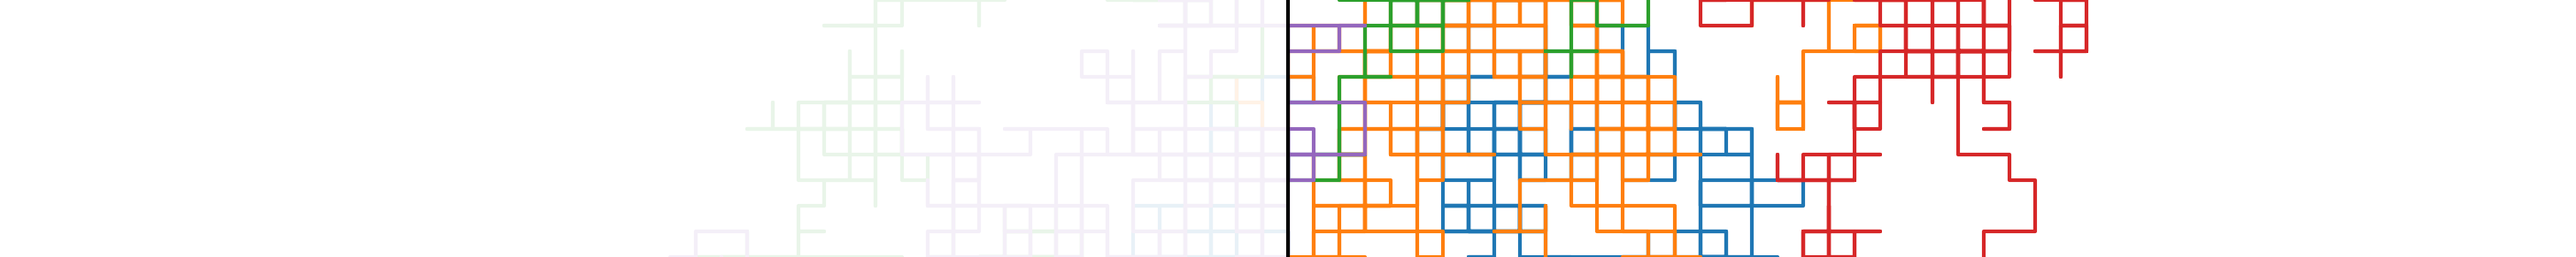
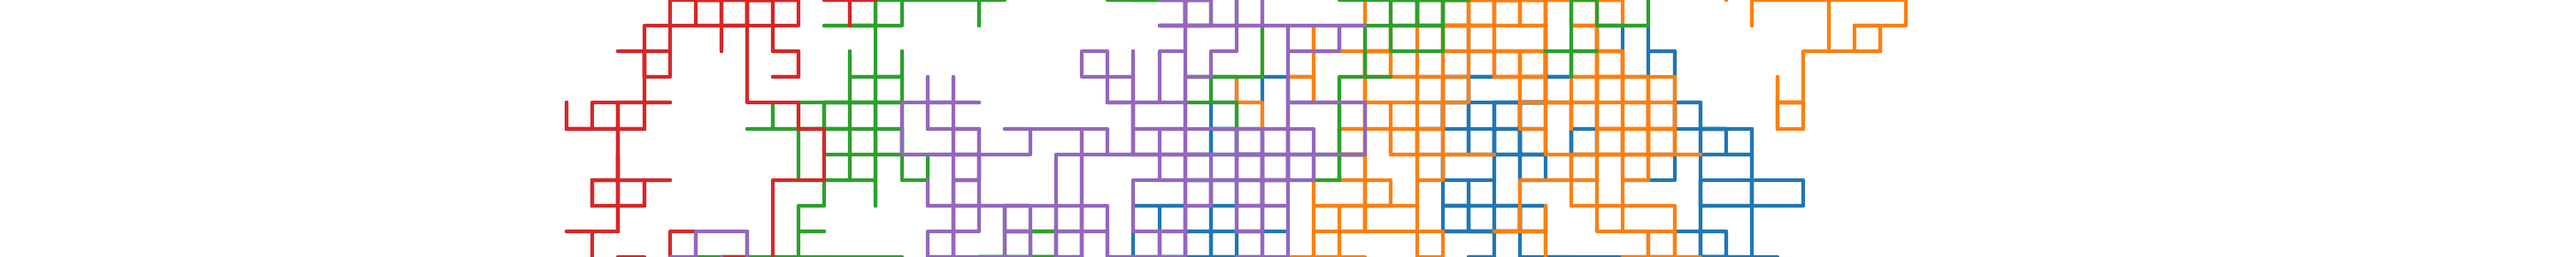
Fixed the hero to align text with respect to the body. This renders better on mobile.

diff --git a/css/style.css b/css/style.css
@@ -21,62 +21,115 @@ a:hover {
   text-decoration: underline;
 }
 
-/* Hero container: acts as a viewport over the fixed-size image */
-/* The image must have a 50% whited out left region so it always appears centered. */
+/* -------- Hero with background image -------- */
+
 .hero {
   position: relative;
-  width: 100%;
-  height: 175px;           /* adjust to match your banner’s visual height */
-  overflow: hidden;        /* hide the part of the image that extends past the right edge */
-  border-bottom: 1px solid #000;
-  background-color: #ffffff;
+  height: 200px;  /* adjust to taste / image aspect */
+  background-image: url("../img/banner.png"); /* new banner with no whiteout */
+  background-size: cover;       /* or 'contain' if you prefer */
+  background-position: center;  /* center the artwork */
+  background-repeat: no-repeat;
+  border-bottom: 2px solid #000;
 }
 
-/* The actual banner image: fixed size, anchored at the left */
-.hero-img {
-  position: absolute;
-  top: 0;
-  left: 50%;
-  transform: translateX(-50%);
-  height: 175px;           /* same as .hero height */
-  width: auto;             /* keep aspect ratio, no rescaling based on window width */
-  max-width: none;         /* don’t auto-fit to container */
-}
-
-/* Text overlay on top of the image */
-/* .hero-inner {
+/* Centered container, same width as main content */
+.hero-inner {
   position: relative;
-  z-index: 2;
   max-width: 900px;
   margin: 0 auto;
-  padding: 1.8rem 1rem;
-} */
-
-.hero-inner {
-  position: absolute;
-  top: 50%;               /* vertical position of top w.r.t. hero */
-  left: 50%;              /* horizontal center of left w.r.t. hero */
-  transform: translate(-150%, -50%); /* Move from above anchor by % size of inner. */
-  z-index: 2;
+  height: 100%;       /* fill full hero height */
+  padding: 0 1rem;    /* matches main's horizontal padding */
 }
 
-/* Card-like white strip with text */
+/* White strip aligned with main text column */
 .hero-strip {
-  display: inline-block;
-  background: rgba(255, 255, 255, 0.0);
-  /* border: 1px solid #000; */
+  position: absolute;
+  top: 0;
+  bottom: 0;                      /* full height of .hero */
+  left: 0;                        /* left edge of the main content column */
+  width: min(340px, 60%);         /* not too wide on small screens */
+  background: rgba(255, 255, 255, 0.9);
+  border-right: 2px solid #000;   /* vertical divider line */
+  border-left: 2px solid #000;
+  display: flex;
+  align-items: center;            /* center text vertically inside strip */
+}
+
+/* Text inside the strip */
+.hero-text {
   padding: 0.8rem 1.2rem;
 }
 
-.hero-strip h1 {
+.hero-text h1 {
   font-size: 2rem;
   font-weight: 700;
-  letter-spacing: 0.0em;
+  letter-spacing: 0.03em;
+  margin-bottom: 0.0rem;
 }
 
-.hero-strip p {
+.hero-text p {
   font-size: 1rem;
-  margin-top: 0.0 rem;
+  margin: 0;
+}
+
+/* Small screens: shrink the strip a bit */
+@media (max-width: 600px) {
+  .hero {
+    height: 180px;
+  }
+
+  .hero-strip {
+    width: 70%;  /* give text more room on small screens */
+  }
+
+  .hero-text h1 {
+    font-size: 1.6rem;
+  }
+}
+
+/* -------- Navigation bar -------- */
+
+.top-nav {
+  background-color: #ffffff;
+  border-bottom: 1px solid #ddd;
+}
+
+.top-nav-inner {
+  max-width: 900px;
+  margin: 0 auto;
+  padding: 0.4rem 1rem;
+  display: flex;
+  gap: 1.5rem;
+  align-items: center;
+  justify-content: flex-start;
+  font-size: 0.95rem;
+}
+
+.top-nav a {
+  text-decoration: none;
+  color: #444;
+  padding-bottom: 0.15rem;
+  border-bottom: 2px solid transparent;
+}
+
+.top-nav a:hover {
+  color: #000;
+  border-bottom-color: #ccc;
+}
+
+.top-nav a.active {
+  color: #000;
+  font-weight: 600;
+  border-bottom-color: #000;
+}
+
+/* Small screens: slightly tighter nav */
+@media (max-width: 600px) {
+  .top-nav-inner {
+    flex-wrap: wrap;
+    gap: 0.75rem;
+  }
 }
 
 /* -------- Main layout -------- */

diff --git a/index.html b/index.html
@@ -8,16 +8,26 @@
 </head>
 <body>
 
-  <header class="hero">
-    <img src="img/banner.png" alt="Akhil Premkumar banner" class="hero-img">
-
-    <div class="hero-inner">
-      <div class="hero-strip">
+<header class="hero">
+  <div class="hero-inner">
+    <div class="hero-strip">
+      <div class="hero-text">
         <h1>Akhil Premkumar</h1>
         <p>Physics × Generative AI</p>
       </div>
     </div>
-  </header>
+  </div>
+</header>
+
+    <!-- Navigation bar -->
+  <!-- <nav class="top-nav">
+    <div class="top-nav-inner">
+      <a href="index.html" class="active">Home</a>
+      <a href="research.html">Research</a>
+      <a href="teaching.html">Teaching</a>
+      <a href="publications.html">Publications</a>
+    </div>
+  </nav> -->
 
   <main>
     <!-- Intro + contact -->
@@ -119,7 +129,7 @@
           Diffusion Models are Kelly Gamblers
         </div>
         <div class="item-meta">
-          Akhil Premkumar, <em>Preprint</em>, 2024.
+          Akhil Premkumar, <em>Preprint</em>, 2025.
           [<a href="https://arxiv.org/abs/2509.23937">arXiv</a>]
         </div>
       </div>
@@ -167,7 +177,7 @@
   </main>
 
   <footer>
-    © Your Name, 2025
+    © Akhil Premkumar, 2025
   </footer>
 
 </body>
